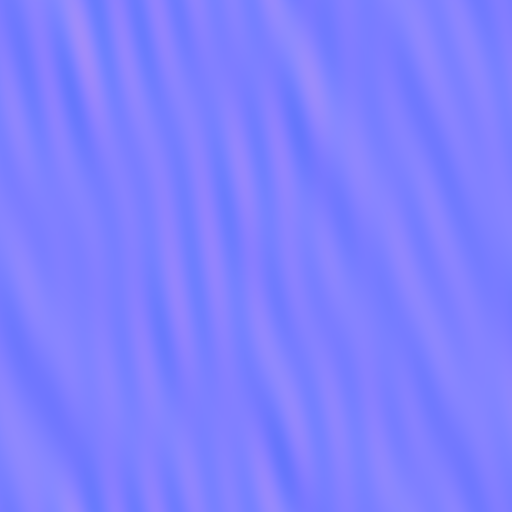
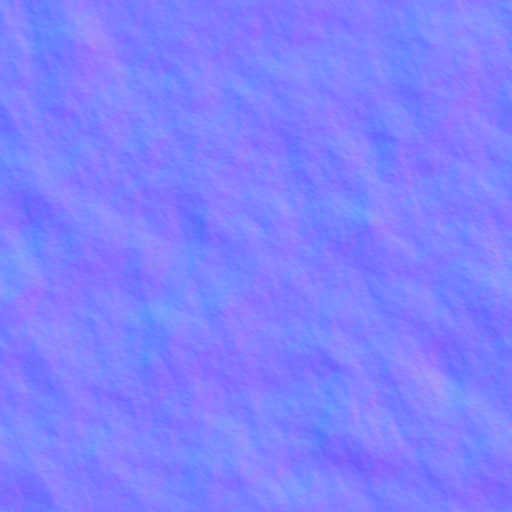
feat: Blender Phase 3 - World-fixed water from a wind-sea spectrum
Phase 1's water normal read as a lattice from the chase camera: 16 wave
components on a 4 m tile, their slope 2.4 times stronger along the tile than
across it. tools/blender/water.py replaces it with a seeded, periodic
wind-sea spectrum on an 8 m tile:

- 360 integer wave vectors on the tile's torus, so the texture tiles;
- wavelengths log-uniform from 6 cm to 2.8 m, so fine chop, medium ripples
  and a long, low swell are all present;
- directions spread about a 28 degree wind, with 28 % of the components
  about a second direction 74 degrees away;
- an 18 % seeded amplitude variation across the tile.

The RMS slope, 0.11, was chosen in Qt at the approved frame from 0.08, 0.11
and 0.14: Phase 1's 0.0757 lay nearly all along one axis, and spread over
every direction it read flat near the boat, where the passing texture is the
water's motion cue. The material's normal strengths are unchanged.

RowingWater.qml repeats the tile every 8 m (6000 m / 750). The texture is
fixed in the world: nothing scrolls and no speed term exists. build_all.py
writes the normals through Blender's image API (make blender-water), re-pins
only this file and records the spectrum in MANIFEST.json's water section; two
generations were byte-identical.

Tests: test_water.py checks that the field tiles, its RMS, its spectrum, that
no component carries 2 % of the slope variance and that the slopes along and
across the tile stay within 1.5x (Phase 1's map fails both). The asset tests
[…]

diff --git a/qml/RowPlay/Replay/RowingWater.qml b/qml/RowPlay/Replay/RowingWater.qml
@@ -21,8 +21,10 @@ Model {
             source: "qrc:/qt/qml/RowPlay/Environments/authored/water-normal.png"
             tilingModeHorizontal: Texture.Repeat
             tilingModeVertical: Texture.Repeat
-            scaleU: 1500
-            scaleV: 1500
+            // One 8 m tile of the Phase 3 normal map (6000 m / 750), fixed
+            // in the world: the boat moves over it, it never scrolls.
+            scaleU: 750
+            scaleV: 750
             generateMipmaps: true
             mipFilter: Texture.Linear
         }

diff --git a/tools/blender/water.py b/tools/blender/water.py
@@ -1,0 +1,111 @@
+# SPDX-License-Identifier: GPL-3.0-or-later
+"""The water normal's height field (Blender Phase 3), without Blender.
+
+A periodic height field on an 8 m tile, made of integer wave vectors on the
+tile's torus so the texture tiles, drawn from a wind-sea spectrum:
+
+- wavelengths log-uniform from 6 cm to 2.8 m, so fine chop, medium ripples
+  and a long, low swell are all present and no one frequency dominates;
+- directions spread about a 28 degree wind as cos^6 of half the angle, with
+  28 % of the components about a second direction 74 degrees away, at 0.55
+  of the slope;
+- slope amplitude falling as (wavelength / 2.8 m)^0.45, so the short chop
+  stays finer than the swell;
+- an 18 % seeded amplitude variation across the tile (gusts).
+
+The slopes are scaled to an RMS of 0.11. The Phase 1 map's RMS was 0.0757,
+nearly all of it along one tile axis (0.070 against 0.029 across). Spread
+over every direction, that same RMS read flat near the boat in Qt, where the
+passing texture is the water's motion cue; 0.08, 0.11 and 0.14 were compared
+at the approved frame, and 0.11 keeps visible ripples near the boat while the
+far water stays subdued (docs/blender-audit.md, "Phase 3"). The scene's normal
+strengths are unchanged. `RowingWater.qml` repeats
+the tile every 8 m (6000 m / 750): the boat moves over it, it never scrolls.
+`build_all.py` writes the normals through Blender's image API; the tests in
+`test_water.py` check the field.
+"""
+
+import math
+
+import numpy as np
+
+SEED = 20260926
+WATER = {"tile": 8.0, "size": 512, "components": 360, "wavelength": [0.06, 2.8],
+         "wind": 28.0, "spread": 6.0, "second": {"share": 0.28, "offset": 74.0, "slope": 0.55},
+         "tilt": 0.45, "gust": 0.18, "rmsSlope": 0.11}
+
+
+def components(spec=WATER, seed=SEED):
+    """(m, q) -> (slope, phase): integer wave vectors drawn from the spectrum."""
+    rng = np.random.default_rng(seed)
+    tile = spec["tile"]
+    lam_min, lam_max = spec["wavelength"]
+    wind = math.radians(spec["wind"])
+    second = spec["second"]
+    comps = {}
+    tries = 0
+    while len(comps) < spec["components"]:
+        tries += 1
+        if tries > spec["components"] * 400:
+            raise ValueError("water spectrum: too few distinct wave vectors")
+        lam = math.exp(rng.uniform(math.log(lam_min), math.log(lam_max)))
+        is_second = rng.uniform() < second["share"]
+        centre = wind + (math.radians(second["offset"]) if is_second else 0.0)
+        theta = rng.uniform(-math.pi, math.pi)
+        if rng.uniform() > abs(math.cos((theta - centre) / 2.0)) ** spec["spread"]:
+            continue
+        k = tile / lam
+        m, q = round(k * math.cos(theta)), round(k * math.sin(theta))
+        if (m, q) == (0, 0) or (m, q) in comps or (-m, -q) in comps:
+            continue
+        lam_real = tile / math.hypot(m, q)
+        if not lam_min * 0.8 <= lam_real <= lam_max * 1.25:
+            continue
+        slope = (lam_real / lam_max) ** spec["tilt"] * (second["slope"] if is_second else 1.0)
+        comps[(m, q)] = (slope, rng.uniform(0, 2 * math.pi))
+    return comps
+
+
+def gusts(spec=WATER, seed=SEED):
+    """Up to six low wave vectors of the seeded amplitude variation."""
+    rng = np.random.default_rng(seed + 1)
+    terms = []
+    for _ in range(6):
+        m, q = int(rng.integers(-2, 3)), int(rng.integers(-2, 3))
+        phase = rng.uniform(0, 2 * math.pi)
+        if (m, q) != (0, 0):
+            terms.append((m, q, phase))
+    return terms
+
+
+def slopes(u, v, comps, terms, spec=WATER):
+    """The unscaled slope field (d/du, d/dv) at tile angles u, v in [0, 2 pi)."""
+    dx, dy = np.zeros_like(u), np.zeros_like(v)
+    for (m, q), (slope, phase) in comps.items():
+        k = math.hypot(m, q)
+        wave = np.cos(m * u + q * v + phase)
+        dx += slope * (m / k) * wave
+        dy += slope * (q / k) * wave
+    envelope = np.zeros_like(u)
+    for m, q, phase in terms:
+        envelope += np.cos(m * u + q * v + phase)
+    return dx, dy, envelope
+
+
+def normals(spec=WATER, seed=SEED):
+    """Unit tangent-space normals (+Z up), rows bottom-up as Blender stores them.
+
+    Returns (normals (size, size, 3), the manifest's record of the spectrum)."""
+    size = spec["size"]
+    comps = components(spec, seed)
+    terms = gusts(spec, seed)
+    v, u = np.mgrid[:size, :size] / size * (2 * math.pi)
+    dx, dy, envelope = slopes(u, v, comps, terms, spec)
+    envelope = 1.0 + spec["gust"] * envelope / max(np.abs(envelope).max(), 1e-6)
+    dx, dy = dx * envelope, dy * envelope
+    scale = spec["rmsSlope"] / math.sqrt((dx * dx + dy * dy).mean())
+    result = np.stack((-dx * scale, -dy * scale, np.ones_like(dx)), -1)
+    result /= np.linalg.norm(result, axis=-1, keepdims=True)
+    lams = sorted(spec["tile"] / math.hypot(m, q) for m, q in comps)
+    record = dict(spec, components=len(comps), wavelengthDrawn=[round(lams[0], 4), round(lams[-1], 4)])
+    return result, record

diff --git a/tools/blender/build_all.py b/tools/blender/build_all.py
@@ -16,6 +16,7 @@ sys.path.insert(0, str(Path(__file__).resolve().parent))
 from common import contact_sheet, export, linear, material, reset
 from probes import bake
 import shell
+from water import normals as water_field
 
 SEED = 20260926
 ROOT = Path(__file__).resolve().parents[2]
@@ -65,20 +66,9 @@ def sky(output, dark):
 
 
 def water(output):
-    """Periodic analytic wave derivatives, tangent-space +Y normal, 4 m tile."""
-    size = 512
-    rng = np.random.default_rng(SEED)
-    v, u = np.mgrid[:size, :size] / size * (2 * math.pi)
-    dx, dy = np.zeros_like(u), np.zeros_like(v)
-    for _ in range(16):
-        kx, ky = int(rng.integers(2, 15)), int(rng.integers(1, 5))
-        phase = rng.uniform(0, 2 * math.pi)
-        amplitude = 0.028 / math.sqrt(kx * kx + ky * ky)
-        slope = amplitude * np.cos(kx * u + ky * v + phase)
-        dx += kx * slope
-        dy += ky * slope
-    normals = np.stack((-dx, -dy, np.ones_like(dx)), -1)
-    normals /= np.linalg.norm(normals, axis=-1, keepdims=True)
+    """The Phase 3 water normal (water.py), written through Blender's image API."""
+    normals, record = water_field()
+    size = record["size"]
     pixels = np.ones((size, size, 4), dtype=np.float32)
     pixels[:, :, :3] = normals * 0.5 + 0.5
     img = bpy.data.images.new("water-normal", size, size)
@@ -87,6 +77,7 @@ def water(output):
     img.filepath_raw = str(output)
     img.file_format = "PNG"
     img.save()
+    return record
 
 
 def buoy(output, previews):
@@ -146,17 +137,23 @@ def main():
     parser.add_argument("--output", type=Path, default=ROOT / "assets/replay/authored")
     parser.add_argument("--previews", type=Path, default=ROOT / "build/previews")
     parser.add_argument("--balsam", default=os.environ.get("ROWPLAY_BALSAM", "balsam"))
-    parser.add_argument("--only", choices=("all", "shell"), default="all",
-                        help="shell: rebuild the shell pack alone and re-pin it in MANIFEST.json")
+    parser.add_argument("--only", choices=("all", "shell", "water"), default="all",
+                        help="rebuild one part alone and re-pin it in MANIFEST.json: shell (Phase 2) "
+                             "or water (Phase 3)")
     args = parser.parse_args(sys.argv[sys.argv.index("--") + 1:] if "--" in sys.argv else [])
     args.output.mkdir(parents=True, exist_ok=True)
     print("Blender", bpy.app.version_string, "seed", SEED)
-    if args.only == "shell":
-        manifest_path = args.output / "MANIFEST.json"
-        report = json.loads(manifest_path.read_text())
-        report["shell"] = rowing_shell(args.output / "rowing-shell.glb", args.previews)
-        data = (args.output / "rowing-shell.glb").read_bytes()
-        report["files"]["rowing-shell.glb"] = {"bytes": len(data), "sha256": hashlib.sha256(data).hexdigest()}
+    if args.only != "all":
+        report = json.loads((args.output / "MANIFEST.json").read_text())
+        if args.only == "shell":
+            report["shell"] = rowing_shell(args.output / "rowing-shell.glb", args.previews)
+            pinned = ["rowing-shell.glb"]
+        else:
+            report["water"] = water(args.output / "water-normal.png")
+            pinned = ["water-normal.png"]
+        for name in pinned:
+            data = (args.output / name).read_bytes()
+            report["files"][name] = {"bytes": len(data), "sha256": hashlib.sha256(data).hexdigest()}
         report["files"] = dict(sorted(report["files"].items()))
         write_manifest(args.output, report)
         return
@@ -165,7 +162,7 @@ def main():
     for name in ("overcast", "blue-hour"):
         bake(args.output / f"{name}.hdr", args.output / f"{name}.ktx", args.balsam,
              ROOT / "build/blender-probes")
-    water(args.output / "water-normal.png")
+    water_report = water(args.output / "water-normal.png")
     triangles = buoy(args.output / "buoy.glb", args.previews)
     (args.output / "course.json").write_text(course_json(placements()))
     shell_report = rowing_shell(args.output / "rowing-shell.glb", args.previews)
@@ -177,7 +174,7 @@ def main():
         files[path.name] = {"bytes": len(data), "sha256": hashlib.sha256(data).hexdigest()}
     report = {"blender": bpy.app.version_string, "seed": SEED,
               "buoyTriangles": triangles, "buoyInstances": 256,
-              "textureMax": 512, "shell": shell_report, "files": files}
+              "textureMax": 512, "shell": shell_report, "water": water_report, "files": files}
     write_manifest(args.output, report)
 
 

diff --git a/tools/blender/test_water.py b/tools/blender/test_water.py
@@ -1,0 +1,66 @@
+# SPDX-License-Identifier: GPL-3.0-or-later
+"""The Phase 3 water field: tiling, slope, spectrum and no dominant lattice."""
+
+import math
+import unittest
+
+import numpy as np
+
+import water
+
+
+class WaterFieldTest(unittest.TestCase):
+    @classmethod
+    def setUpClass(cls):
+        cls.comps = water.components()
+        cls.normals, cls.record = water.normals()
+
+    def test_regeneration_is_identical(self):
+        again, _ = water.normals()
+        self.assertTrue(np.array_equal(self.normals, again))
+
+    def test_integer_wave_vectors_tile(self):
+        # Integer wave vectors make the field periodic on the tile, so the
+        # texture has no seam: the slope past the last column is the first.
+        terms = water.gusts()
+        n = water.WATER["size"]
+        v = np.arange(n) / n * 2 * math.pi
+        first = water.slopes(np.zeros(n), v, self.comps, terms)
+        wrapped = water.slopes(np.full(n, 2 * math.pi), v, self.comps, terms)
+        for a, b in zip(first, wrapped):
+            np.testing.assert_allclose(a, b, atol=1e-9)
+        self.assertTrue(all(isinstance(m, int) and isinstance(q, int) for m, q in self.comps))
+
+    def test_slope_is_scaled_to_its_rms(self):
+        n = self.normals
+        sx, sy = -n[..., 0] / n[..., 2], -n[..., 1] / n[..., 2]
+        self.assertAlmostEqual(math.sqrt((sx * sx + sy * sy).mean()), water.WATER["rmsSlope"], places=9)
+        self.assertEqual(water.WATER["rmsSlope"], 0.11)
+
+    def test_spectrum_spans_chop_ripples_and_swell(self):
+        tile = water.WATER["tile"]
+        lams = sorted(tile / math.hypot(m, q) for m, q in self.comps)
+        self.assertEqual(len(lams), 360)
+        self.assertLess(lams[0], 0.08)
+        self.assertGreater(lams[-1], 2.0)
+        # Every octave from 7.5 cm to 2.4 m holds several components.
+        for low in (0.075, 0.15, 0.3, 0.6, 1.2):
+            self.assertGreaterEqual(sum(low <= l < 2 * low for l in lams), 8, low)
+
+    def test_no_component_dominates(self):
+        # The Phase 1 map had 16 components, so each carried 6 % or more of
+        # the slope variance and their beats read as a lattice.
+        variance = [slope * slope for slope, _ in self.comps.values()]
+        self.assertLess(max(variance) / sum(variance), 0.02)
+
+    def test_slope_is_not_one_directional(self):
+        # The Phase 1 map's RMS slope was 0.070 along the tile and 0.029
+        # across it (2.4x): parallel bands. The wind still leans the field.
+        n = self.normals
+        sx, sy = -n[..., 0] / n[..., 2], -n[..., 1] / n[..., 2]
+        ratio = math.sqrt((sx * sx).mean() / (sy * sy).mean())
+        self.assertLess(max(ratio, 1 / ratio), 1.5)
+
+
+if __name__ == "__main__":
+    unittest.main()

diff --git a/crates/rowplay-app/tests/asset_hashes.rs b/crates/rowplay-app/tests/asset_hashes.rs
@@ -472,6 +472,45 @@ fn authored_assets_match_manifest_and_budgets() {
     }
 }
 
+/// Blender Phase 3: the water normal's tile is the one the scene repeats.
+/// `RowingWater.qml` draws Qt's 100-unit Rectangle scaled by 60 (6000 m) and
+/// repeats the texture `scaleU` times, so one tile is 6000 / scaleU metres.
+#[test]
+fn the_water_tile_matches_the_scene() {
+    let dir = assets_dir().join("authored");
+    let manifest: serde_json::Value =
+        serde_json::from_slice(&std::fs::read(dir.join("MANIFEST.json")).unwrap()).unwrap();
+    let water = &manifest["water"];
+    let tile = water["tile"].as_f64().unwrap();
+    let size = water["size"].as_u64().unwrap();
+    assert!(size <= manifest["textureMax"].as_u64().unwrap());
+    let qml =
+        std::fs::read_to_string(assets_dir().join("../../qml/RowPlay/Replay/RowingWater.qml"))
+            .unwrap();
+    let number = |needle: &str| -> f64 {
+        let start = qml.find(needle).unwrap_or_else(|| panic!("{needle} moved")) + needle.len();
+        qml[start..]
+            .split(|c: char| !(c.is_ascii_digit() || c == '.'))
+            .find(|s| !s.is_empty())
+            .unwrap()
+            .parse()
+            .unwrap()
+    };
+    assert!(qml.contains("scale: Qt.vector3d(60, 60, 1)"));
+    let (u, v) = (number("scaleU:"), number("scaleV:"));
+    assert!((u - v).abs() < f64::EPSILON);
+    assert!(
+        (6000.0 / u - tile).abs() < 1e-9,
+        "RowingWater repeats a {} m tile, the generator draws {tile} m",
+        6000.0 / u
+    );
+    // The PNG's own header: width and height at offsets 16 and 20.
+    let png = std::fs::read(dir.join("water-normal.png")).unwrap();
+    let width = u32::from_be_bytes(png[16..20].try_into().unwrap());
+    let height = u32::from_be_bytes(png[20..24].try_into().unwrap());
+    assert_eq!((u64::from(width), u64::from(height)), (size, size));
+}
+
 /// ADR 0002: the common assets authored here are MIT, whatever the licence of
 /// the repository or of the scripts that generate them. Every file in the
 /// authored pack needs its own MIT row in ASSET_PROVENANCE.md, and no row may

diff --git a/ASSET_PROVENANCE.md b/ASSET_PROVENANCE.md
@@ -40,7 +40,7 @@ common RowPlay-family assets (ADR 0002). The MIT text is
 `LICENSES/MIT-rowplay.txt` (Copyright (c) 2026 shenghaoc).
 
 The files are generated by `tools/blender/build_all.py`, `common.py`,
-`canonical.py`, `probes.py` and `shell.py`. Those scripts are GPL-3.0-or-later
+`canonical.py`, `probes.py`, `shell.py` and `water.py`. Those scripts are GPL-3.0-or-later
 application tooling. Their licence is not the assets' licence, and it is not
 the reason the assets are MIT.
 
@@ -50,7 +50,7 @@ the reason the assets are MIT.
 | `assets/replay/authored/blue-hour.hdr` | MIT | source radiance | Blender Cycles world nodes, blue-hour palette | `build_all.py` |
 | `assets/replay/authored/overcast.ktx` | MIT | runtime probe (derived) | `overcast.hdr`, prefiltered by Qt 6.11.2 balsam | `build_all.py`, `probes.py` |
 | `assets/replay/authored/blue-hour.ktx` | MIT | runtime probe (derived) | `blue-hour.hdr`, prefiltered by Qt 6.11.2 balsam | `build_all.py`, `probes.py` |
-| `assets/replay/authored/water-normal.png` | MIT | texture | seeded analytic wave derivatives | `build_all.py` |
+| `assets/replay/authored/water-normal.png` | MIT | texture (Blender Phase 3) | seeded periodic wind-sea spectrum, 360 wave vectors on an 8 m tile | `water.py`, `build_all.py` |
 | `assets/replay/authored/buoy.glb` | MIT | mesh | generated in Blender | `build_all.py`, `common.py`, `canonical.py` |
 | `assets/replay/authored/course.json` | MIT | placement data | generated: two buoy rings just outside the web's two lanes (inputs below) | `build_all.py` |
 | `assets/replay/authored/rowing-shell.glb` | MIT | mesh (Blender Phase 2) | generated in Blender to the V3 pack's rowing contract, fitted to the athlete (inputs below) | `shell.py`, `build_all.py`, `common.py`, `canonical.py` |
@@ -67,7 +67,11 @@ and no `.blend` file is committed for them.
   Cycles world nodes, independently authored daytime and blue-hour palettes.
 - `overcast.ktx`, `blue-hour.ktx`: Qt 6.11.2 balsam-prefiltered radiance, reduced
   by the script to 128-pixel faces without dropping any roughness level.
-- `water-normal.png`: seeded periodic analytic wave derivatives, no photo input.
+- `water-normal.png` (Blender Phase 3): seeded periodic wave derivatives from
+  a wind-sea spectrum (`tools/blender/water.py`), 360 integer wave vectors on
+  an 8 m tile, wavelengths 6 cm to 2.8 m; no photo input. The manifest's
+  `water` section records the spectrum. It replaced Phase 1's 16-component
+  map.
 - `buoy.glb`: original 224-triangle generic buoy, metre units, plain glTF 2.0.
 - `course.json`: 256 fixed world-space placements around the existing loop,
   in two rings of 128 just outside the web's two lanes.
